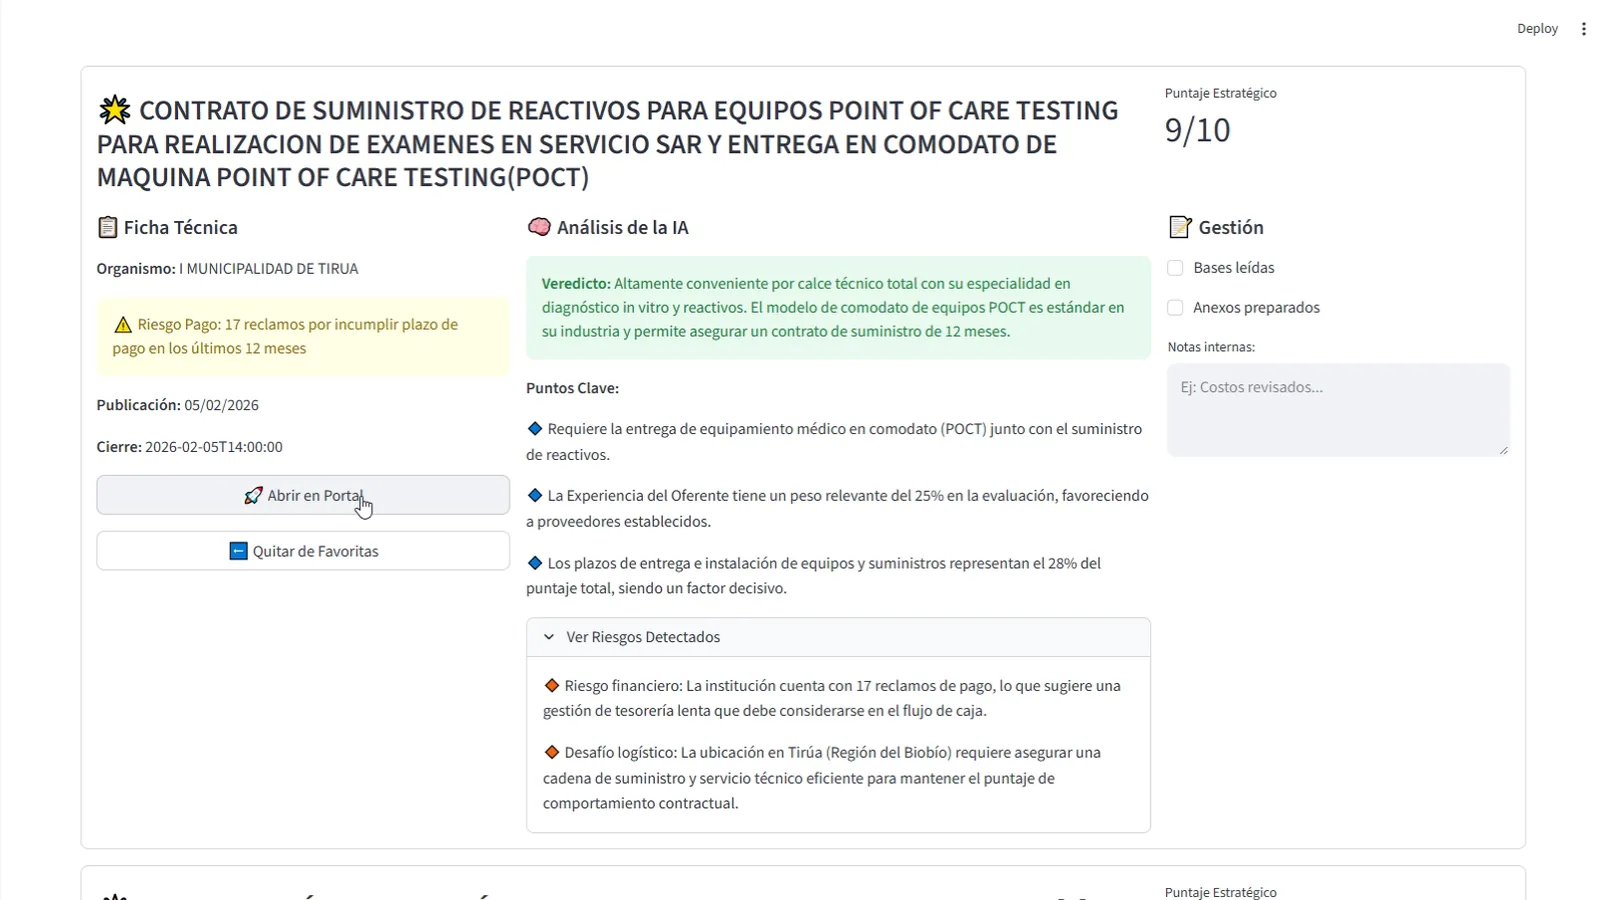
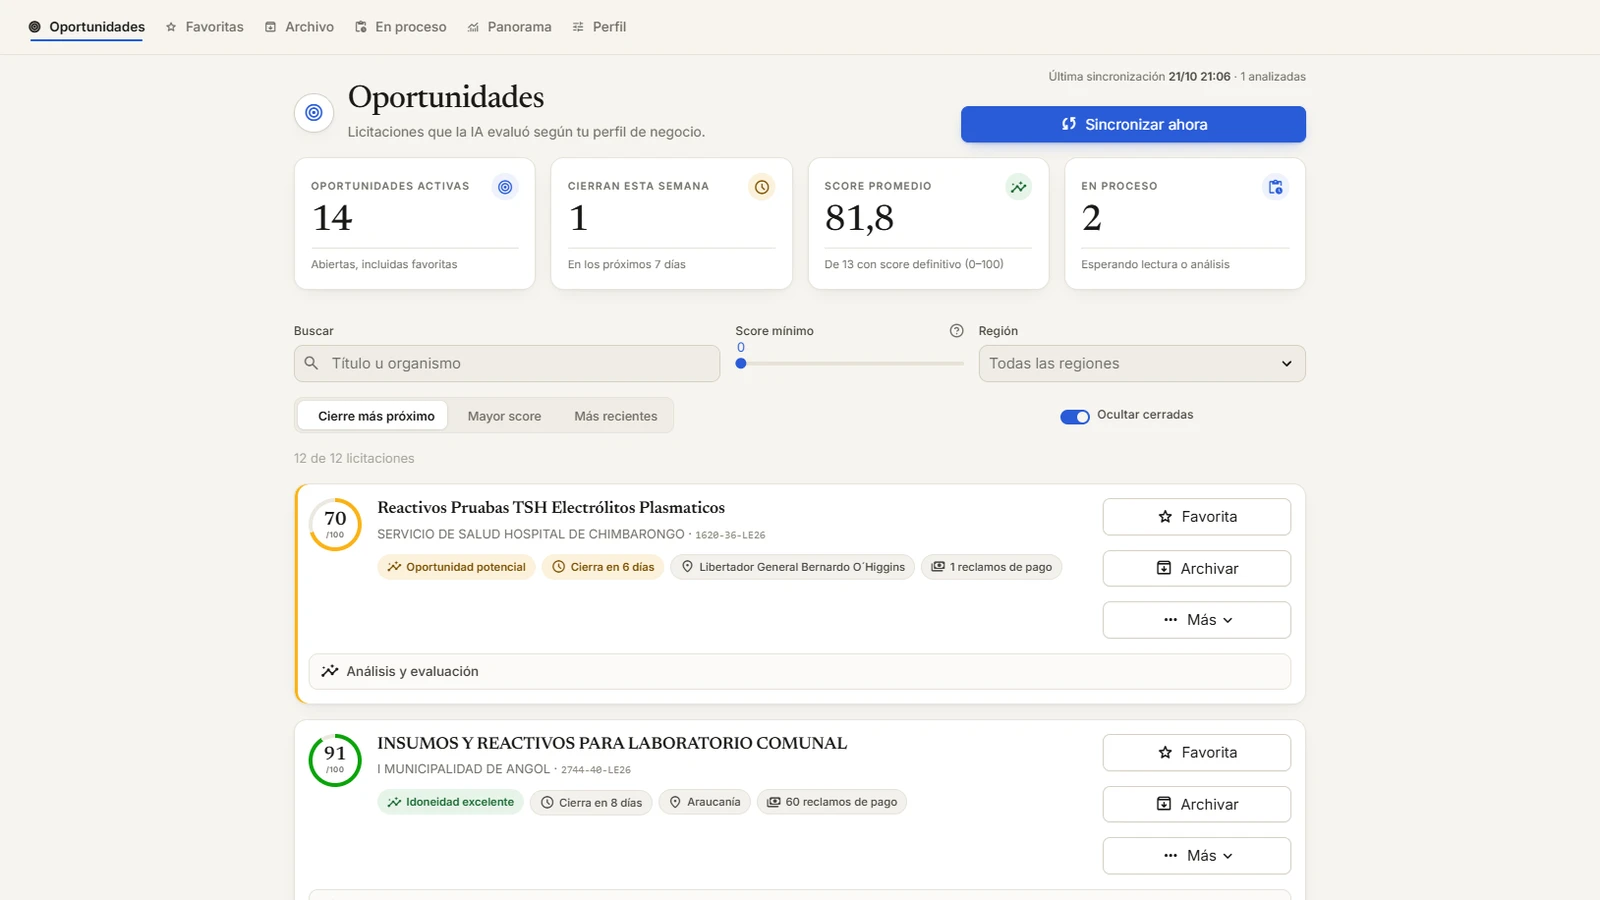
fix: Actualización de portada de LicitAI en home

diff --git a/app/content/projects.ts b/app/content/projects.ts
@@ -23,7 +23,7 @@ export const projects: Project[] = [
     caseStudyTo: "/proyectos/licitai",
     cover: {
       src: licitaiCover,
-      alt: "Panel de LicitAI: ficha de una licitación con puntaje estratégico, veredicto y puntos clave del análisis de la IA y riesgos detectados.",
+      alt: "Página Oportunidades de LicitAI: indicadores de oportunidades activas, cierres de la semana, score promedio y licitaciones en proceso, filtros de búsqueda y tarjetas de licitaciones con su score, días al cierre, región y reclamos de pago.",
     },
   },
   {
